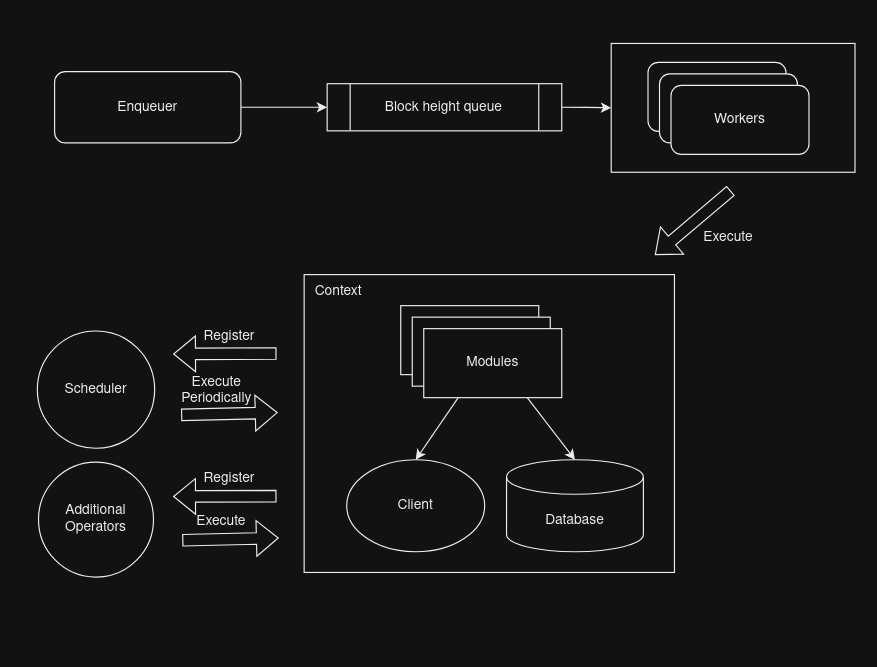
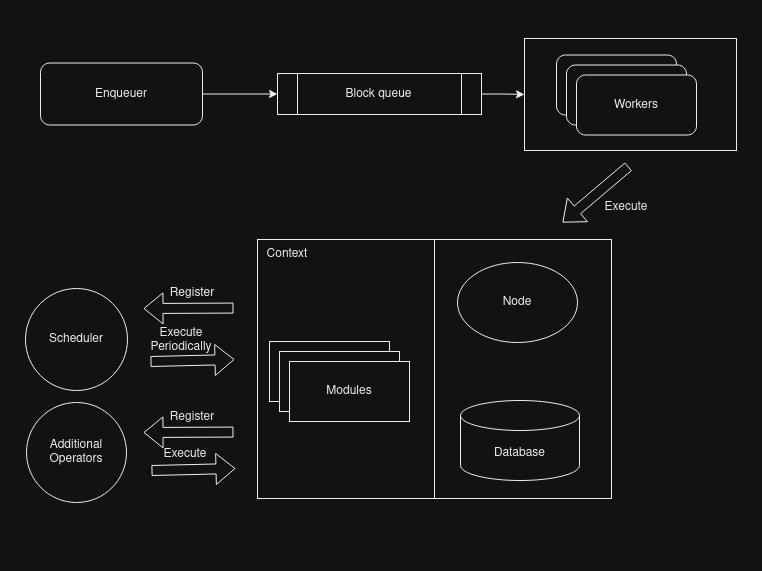
docs: finish adr general parser architecture writing

diff --git a/.docs/architecture/adr-001-general-parser-architecture.md b/.docs/architecture/adr-001-general-parser-architecture.md
@@ -4,10 +4,11 @@
 ## Changelog
 
 - March 11th, 2024: Init draft;
+- March 13th, 2024: First draft;    
 
 ## Status
 
-DRAFT
+PROPOSED
 
 ## Abstract
 
@@ -15,77 +16,133 @@ This ADR outlines the general parser architecture designed for Juno, addressing 
 
 ## Context
 
-Juno currently lacks the necessary architecture documents and interfaces to effectively support multiple chains. In addition, it 
+Juno currently lacks the necessary architecture documents and interfaces to effectively support multiple chains. Additionally, it faces challenges in handling messages and transactions, especially when dealing with different blockchain protocols and versions. There is a pressing need to establish a robust and adaptable architecture that can accommodate the diverse requirements of various chains while maintaining efficiency and reliability. 
 
 ## Decision
+
+To address these challenges, the decision is made to redesign Juno's parser architecture. The architecture will prioritize modularity and extensibility, allowing seamless integration with different blockchain networks and protocols. Key components such as enqueuers, workers, and modules will be defined with clear responsibilities and interfaces to facilitate easy extension and customization. Moreover, the architecture will incorporate mechanisms to handle transactions, messages, and other blockchain operations efficiently.
  
+The provided image offer a comprehensive overview of the Juno parser, detailing its core components and functionalities.
+
 ![Architecture](../.img/adr-001-general-architecture.png)
 
-We decided limit Juno only responsible for being an interfaces to handle enqueuing and parsing blocks jobs. The other detailed handling tasks should be moved to Callisto, say, handling transactions, handling messages and etc.
+Let's break down each element briefly by following topics.
+
+### Context
+
+The Context interface acts as a central hub shared among all elements within the parser, including enqueuers, workers, and other components.
+
+```go
+type Context interface {
+    // Context represents the manager for the concurrent jobs
+    context.Context
+
+    // Database returns the database used to operate blocks by workers
+    Database() Database
+
+    // Node returns the client used to listen to blocks by enqueuers
+    Node() Node
+    
+    // Modules returns a set of the extensional operations that should be executed inside a worker
+    Modules() []Module
+}
+```
+
+### Block
+
+The Block interface serves as a representation of the aggregation of operations on the blockchain and is the fundamental element transferred within the queue for parsing by workers within Juno.
+
+```go
+type Block[T: any] interface {
+    // Height returns the height of the block.
+    Height() uint64
+
+    // Hash returns the hash of the block.
+    Hash() string
+
+    // Timestamp returns the timestamp of the block.
+    Timestamp() time.Time
+
+    // Proposer returns the address of the block proposer.
+    Proposer() string
+
+    // Value returns the content of the block.
+    Value() T
+}
+```
 
 ### Enqueuer
 
+The Enqueuer interface orchestrates the process of listening for available blocks and enqueueing them into the queue for parsing by workers.
+
+In the current version, two types of enqueuers are implemented:
+
+* Missing Blocks Enqueuer: This enqueuer queries missing blocks from the given start block to the current latest block and enqueues them into the queue.
+* New Blocks Enqueuer: This enqueuer listens for new blocks from the node and enqueues them into the queue.
+
 ```go
 type Enqueuer interface {
-    ListenAndEnqueueBlocks(queue BlockQueue) (err error)
+    // ListenAndEnqueueBlocks listens for available blocks and enqueues them into the queue.
+    ListenAndEnqueueBlocks(ctx Context, queue BlockQueue) (err error)
 }
 ```
 
 ### Block Queue
 
+The BlockQueue interface serves as a communication channel between enqueuers and workers within the Juno architecture.
+
 ```go
 type BlockQueue interface {
-    EnqueueBlock(position uint64)
+    // Enqueue enqueues a block into the queue.
+    Enqueue(block Block)
     
-    ListenBlocks()
+    // Listen returns a channel to listen for blocks.
+    Listen() <-chan Block
 }
 ```
 
-### Context
+### Node
 
-Context 
-
-```go
-type Context interface {
-    Database() Database
-
-    Client() Client
-    
-    Modules() []Module
-}
-```
-
-### Client
+The Node interface serves as an abstraction layer for interacting with RPC servers or other clients to obtain block data efficiently.
 
 ```go
 type Client interface {
-    LatestBlock(position uint64) Block
+    // LatestBlock retrieves the latest block from the connected node.
+    LatestBlock() Block
 
+    // SubscribeBlocks returns a channel to subscribe to new blocks from the connected node.
     SubscribeBlocks() <-chan Block
 }
 ```
 
 ### Database
 
+The Database interface encapsulates the necessary operations for interacting with the underlying storage system.
+
 ```go
 type Database interface {
+    // SaveBlock saves a block into the database.
     SaveBlock() error
 
+    // LatestBlock returns the latest block from the database.
     LatestBlock() (Block, error)
-
-    MissingHeights(startHeight, endHeight int64) []int64
 }
 ```
 
 ### Worker
 
+The Worker interface defines the functionality for parsing blocks from the queue within Juno's parser architecture.
+
 ```go
 type Worker interface {
+    // Start starts the worker to parse blocks from the queue.
     Start(ctx Context, queue BlockQueue)
 }
 ```
 
 ### Scheduler
+
+The Scheduler interface facilitates the execution of periodic operations within Juno's parser architecture.
 
 ```go
 type PeriodicOperationsModule interface {
@@ -96,24 +153,39 @@ type PeriodicOperationsModule interface {
 }
 
 type Scheduler interface {
+    // Register registers a periodic operations module.
     Register(module PeriodicOperationsModule)
+
+    // Start starts the scheduler.
     Start(ctx Context)
 }
 ```
 
 ### Modules
 
+The Modules interface serves as the foundation for defining and extending functionality within Juno's parser architecture.
+
+Within Juno, a fundamental module called BlockModule is provided, dedicated to handling blocks.
+
+Additionally, developers have the flexibility to create custom modules tailored to specific business requirements, such as TransactionModule, GovModule, and others.
+
 ```go
 type Module interface {
+    // Name returns the name of the module.
     Name() string
 }
 
 type BlockModule interface {
+    // HandleBlock handles a block parsed by workers.
     HandleBlock(block Block) error
 }
 ```
 
 ### Additional operator
+
+The Additional Operator interface provides functionality for executing additional operations on a additional basis within Juno's parser architecture.
+
+Currently, we utilize the additional operation module to host a Prometheus server.
 
 ```go
 type AdditionalOperationModule interface {
@@ -124,41 +196,34 @@ type AdditionalOperationModule interface {
 }
 
 type AdditionalOperator interface {
+    // Register registers an additional operation module.
     Register(module AdditionalOperationModule)
+
+    // Start starts the additional operator.
     Start(ctx Context)
 }
 ```
 
-
-
 ## Consequences
-
-> This section describes the resulting context, after applying the decision. All consequences should be listed here, not just the "positive" ones. A particular decision may have positive, negative, and neutral consequences, but all of them affect the team and project in the future.
 
 ### Backwards Compatibility
 
-> All ADRs that introduce backwards incompatibilities must include a section describing these incompatibilities and their severity. The ADR must explain how the author proposes to deal with these incompatibilities. ADR submissions without a sufficient backwards compatibility treatise may be rejected outright.
+The decision to redesign Juno's parser architecture is not backwards compatible, as the current implementation only supports Cosmos SDK chains. The introduction of a new architecture with enhanced interfaces may require adjustments to existing codebases and integrations. However, this trade-off is necessary to accommodate the future expansion of Juno to support a wider range of blockchain networks beyond Cosmos SDK chains. Despite the lack of backwards compatibility, the long-term benefits of the redesigned architecture justify the need for this transition.
 
 ### Positive
 
-{positive consequences}
+* Improved Flexibility: The redesigned architecture will enable Juno to support a wider range of blockchain networks and adapt to evolving protocols more effectively.
+* Enhanced Scalability: With a modular and extensible design, Juno will be better equipped to handle increasing volumes of transactions and messages from multiple chains.
+
 
 ### Negative
 
-{negative consequences}
+* Increased Development Complexity: Implementing a more sophisticated architecture may require additional development effort and resources.
+* Potential Performance Overhead: Depending on the implementation, there may be a slight performance overhead associated with the modular design. However, this is outweighed by the benefits of improved flexibility and scalability.
 
 ### Neutral
 
-{neutral consequences}
-
-## Further Discussions
-
-While an ADR is in the DRAFT or PROPOSED stage, this section should contain a summary of issues to be solved in future iterations (usually referencing comments from a pull-request discussion).
-Later, this section can optionally list ideas or improvements the author or reviewers found during the analysis of this ADR.
-
-## Test Cases [optional]
-
-Test cases for an implementation are mandatory for ADRs that are affecting consensus changes. Other ADRs can choose to include links to test cases if applicable.
+unknown
 
 ## References
 
